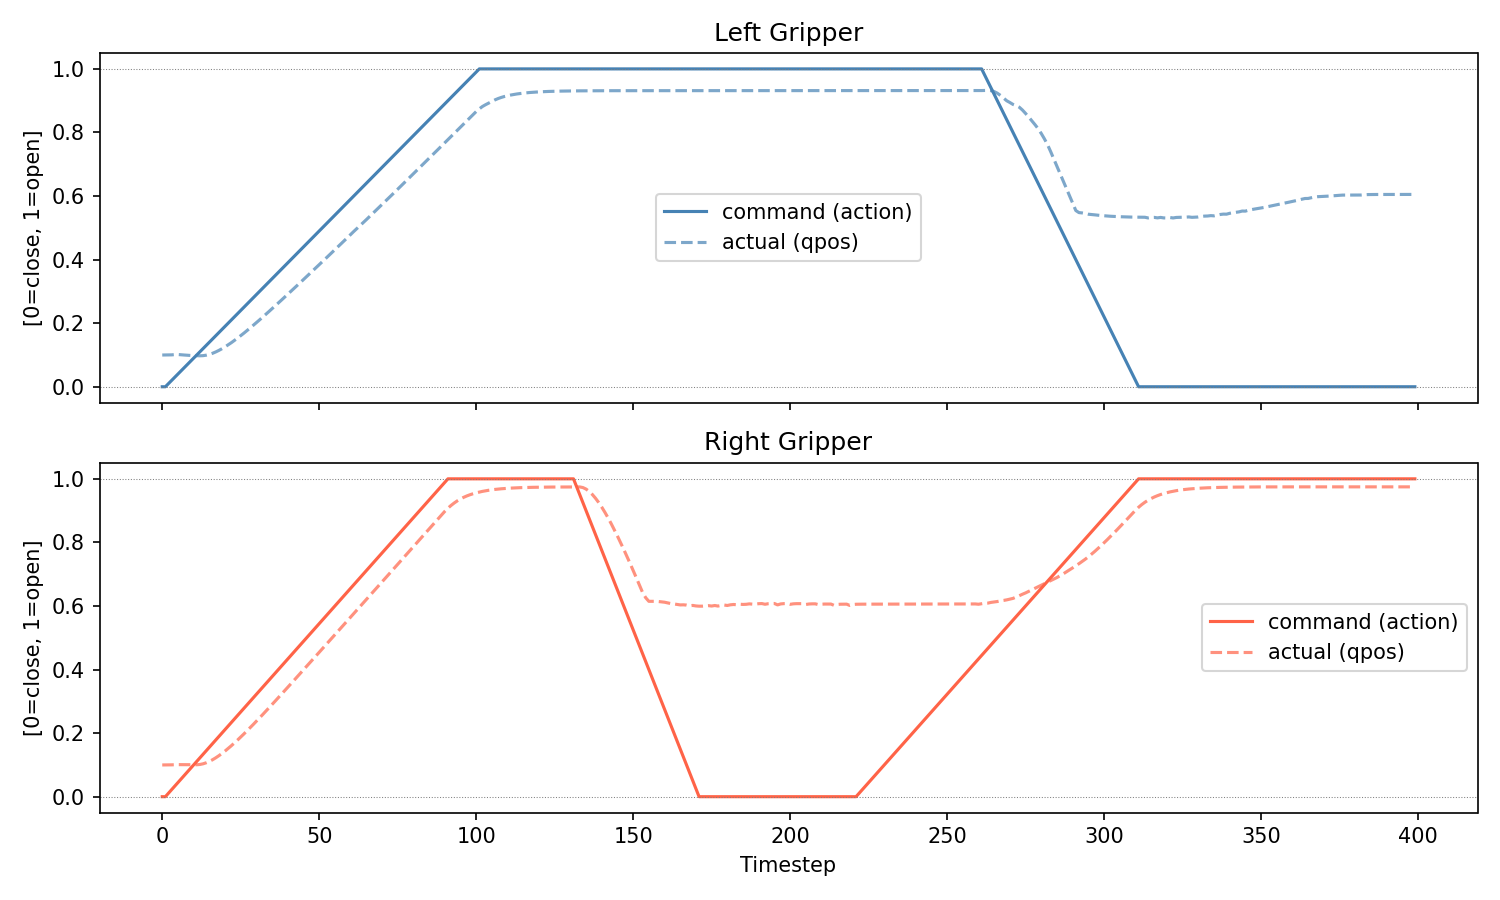
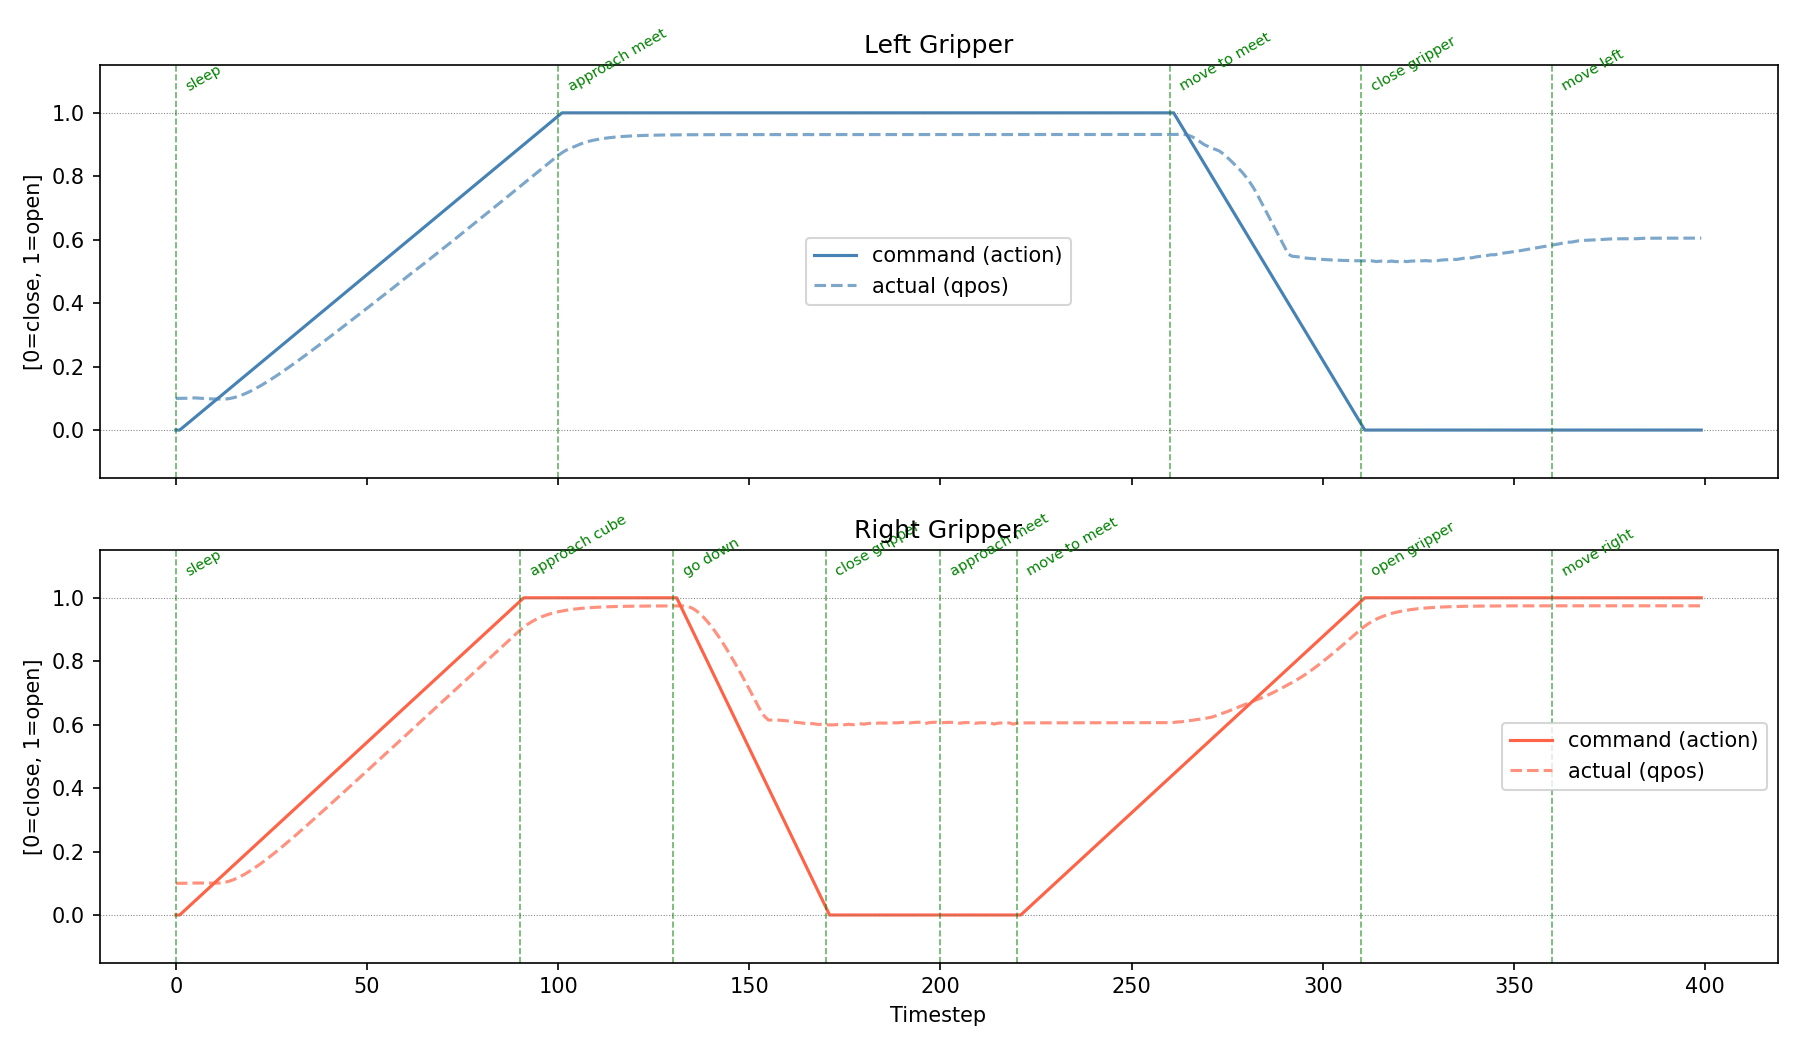
update gripper debug memo

diff --git a/memo/visualize_gripper.py b/memo/visualize_gripper.py
@@ -8,28 +8,50 @@ with h5py.File(dataset_path, 'r') as f:
     action = f['action'][:]               # (400, 14)
     qpos   = f['observations/qpos'][:]    # (400, 14)
 
-left_cmd    = action[:, 6]
-right_cmd   = action[:, 13]
+left_cmd     = action[:, 6]
+right_cmd    = action[:, 13]
 left_actual  = qpos[:, 6]
 right_actual = qpos[:, 13]
 timesteps = np.arange(len(action))
 
-fig, axes = plt.subplots(2, 1, figsize=(10, 6), sharex=True)
+left_events = [
+    (0,   'sleep'),
+    (100, 'approach meet'),
+    (260, 'move to meet'),
+    (310, 'close gripper'),
+    (360, 'move left'),
+]
+right_events = [
+    (0,   'sleep'),
+    (90,  'approach cube'),
+    (130, 'go down'),
+    (170, 'close gripper'),
+    (200, 'approach meet'),
+    (220, 'move to meet'),
+    (310, 'open gripper'),
+    (360, 'move right'),
+]
 
-for ax, cmd, actual, title, color in zip(
+fig, axes = plt.subplots(2, 1, figsize=(12, 7), sharex=True)
+
+for ax, cmd, actual, title, color, events in zip(
     axes,
     [left_cmd, right_cmd],
     [left_actual, right_actual],
     ['Left Gripper', 'Right Gripper'],
     ['steelblue', 'tomato'],
+    [left_events, right_events],
 ):
     ax.plot(timesteps, cmd,    color=color, label='command (action)')
     ax.plot(timesteps, actual, color=color, linestyle='--', alpha=0.7, label='actual (qpos)')
     ax.set_title(title)
     ax.set_ylabel('[0=close, 1=open]')
-    ax.set_ylim(-0.05, 1.05)
+    ax.set_ylim(-0.15, 1.15)
     ax.axhline(0, color='gray', linewidth=0.5, linestyle=':')
     ax.axhline(1, color='gray', linewidth=0.5, linestyle=':')
+    for t, label in events:
+        ax.axvline(t, color='green', linewidth=0.8, linestyle='--', alpha=0.6)
+        ax.text(t + 2, 1.07, label, fontsize=7, color='green', rotation=30)
     ax.legend()
 
 axes[1].set_xlabel('Timestep')
